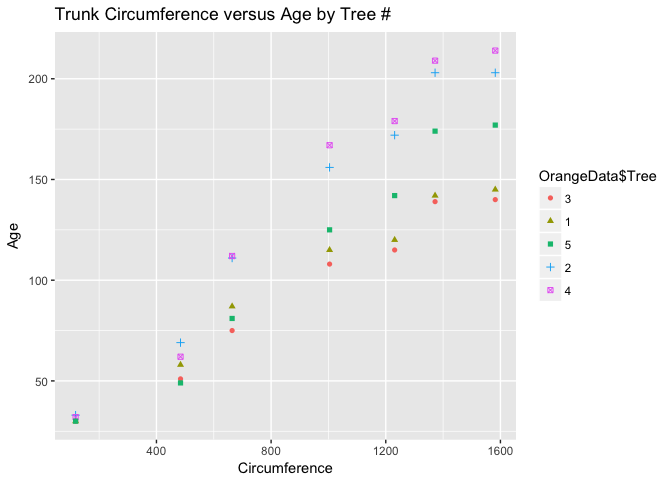
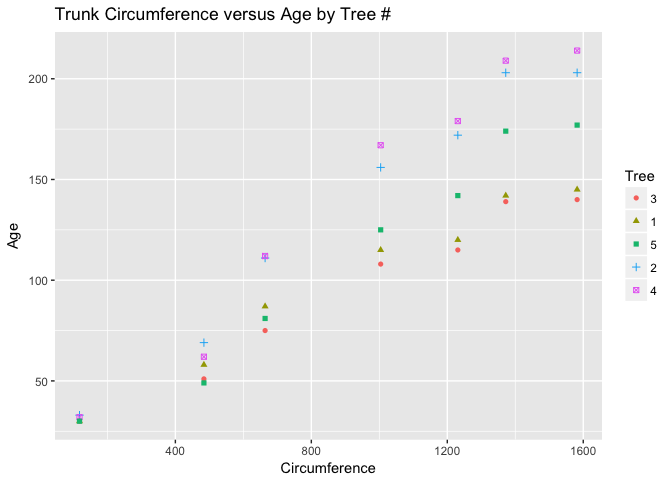
Update
Changes to commenting procedure

diff --git a/README.md b/README.md
@@ -16,25 +16,36 @@ source("install_load.R", print.eval = TRUE)
 
     ## 
     ## The downloaded binary packages are in
-    ##  /var/folders/wz/910_s_x97vs8hrw8gnjc98g80000gn/T//RtmpMI7lV1/downloaded_packages
+    ##  /var/folders/wz/910_s_x97vs8hrw8gnjc98g80000gn/T//RtmpR9XLBj/downloaded_packages
     ## 
     ## The downloaded binary packages are in
-    ##  /var/folders/wz/910_s_x97vs8hrw8gnjc98g80000gn/T//RtmpMI7lV1/downloaded_packages
+    ##  /var/folders/wz/910_s_x97vs8hrw8gnjc98g80000gn/T//RtmpR9XLBj/downloaded_packages
     ## 
     ## The downloaded binary packages are in
-    ##  /var/folders/wz/910_s_x97vs8hrw8gnjc98g80000gn/T//RtmpMI7lV1/downloaded_packages
+    ##  /var/folders/wz/910_s_x97vs8hrw8gnjc98g80000gn/T//RtmpR9XLBj/downloaded_packages
     ## 
     ## The downloaded binary packages are in
-    ##  /var/folders/wz/910_s_x97vs8hrw8gnjc98g80000gn/T//RtmpMI7lV1/downloaded_packages
+    ##  /var/folders/wz/910_s_x97vs8hrw8gnjc98g80000gn/T//RtmpR9XLBj/downloaded_packages
     ## 
     ## The downloaded binary packages are in
-    ##  /var/folders/wz/910_s_x97vs8hrw8gnjc98g80000gn/T//RtmpMI7lV1/downloaded_packages
+    ##  /var/folders/wz/910_s_x97vs8hrw8gnjc98g80000gn/T//RtmpR9XLBj/downloaded_packages
     ## 
     ## The downloaded binary packages are in
-    ##  /var/folders/wz/910_s_x97vs8hrw8gnjc98g80000gn/T//RtmpMI7lV1/downloaded_packages
+    ##  /var/folders/wz/910_s_x97vs8hrw8gnjc98g80000gn/T//RtmpR9XLBj/downloaded_packages
     ## 
     ## The downloaded binary packages are in
-    ##  /var/folders/wz/910_s_x97vs8hrw8gnjc98g80000gn/T//RtmpMI7lV1/downloaded_packages
+    ##  /var/folders/wz/910_s_x97vs8hrw8gnjc98g80000gn/T//RtmpR9XLBj/downloaded_packages
+
+    ## Warning in download.file(url, destfile, method, mode = "wb", ...): cannot
+    ## open URL 'http://cran.us.r-project.org/bin/macosx/mavericks/contrib/3.3/
+    ## lubridate_1.6.0.tgz': HTTP status was '0 (null)'
+
+    ## Warning in download.packages(pkgs, destdir = tmpd, available = available, :
+    ## download of package 'lubridate' failed
+
+    ## 
+    ## The downloaded binary packages are in
+    ##  /var/folders/wz/910_s_x97vs8hrw8gnjc98g80000gn/T//RtmpR9XLBj/downloaded_packages
 
     ## Warning in doTryCatch(return(expr), name, parentenv, handler): unable to load shared object '/Library/Frameworks/R.framework/Resources/modules//R_X11.so':
     ##   dlopen(/Library/Frameworks/R.framework/Resources/modules//R_X11.so, 6): Library not loaded: /opt/X11/lib/libSM.6.dylib
@@ -45,22 +56,86 @@ source("install_load.R", print.eval = TRUE)
 
 ##### a) Calculate the mean and the median of the trunk circumferences for different size of the trees. (Tree)
 
-#### We get the mean and median trunk circumference for the types of trees.
+#### *We get the mean and median trunk circumference for the types of trees.*
+
+![](/Users/mcrowder/Documents/Grad%20School/Data_Science/Case_Study_2/Case_Study_2/orangeTree.png)
 
 ``` r
-source("Q2_Orange.R", print.eval = TRUE, echo = FALSE)
+source("Q2_Orange.R", print.eval = TRUE, echo = TRUE, keep.source = TRUE)
 ```
 
-![](README_files/figure-markdown_github/unnamed-chunk-2-1.png)![](README_files/figure-markdown_github/unnamed-chunk-2-2.png)
+    ## 
+    ## > OrangeData <- Orange
+    ## 
+    ## > #We are going to use a SQL function to get answer to part A #
+    ## > #summaryBy(circumference ~ Tree, data = OrangeData, FUN = list(mean, median))
+    ## > 
+    ## > 
+    ##  .... [TRUNCATED] 
+    ## 
+    ## > qplot(data = OrangeData, x = age, y = circumference, shape = Tree, xlab = "Circumference", ylab = "Age", main = "Trunk Circumference versus Age by T ..." ... [TRUNCATED]
+
+![](README_files/figure-markdown_github/unnamed-chunk-2-1.png)
+
+    ## 
+    ## > # For the boxplot we use ggplot to generate Truck Circumference by Tree using different colors by tree #
+    ## > ggplot(data = OrangeData,
+    ## +   aes(x = Tre .... [TRUNCATED]
+
+![](README_files/figure-markdown_github/unnamed-chunk-2-2.png)
 
 ### 3.
 
 #### Part(i) Find the difference between the maximum and the minimum monthly average temperatures for each country and report/visualize top 20 countries with the maximum differences for the period since 1900.
 
+#### *The top 20 countries with maximum differences for the period are: Kazakhstan, Mongolia, Russia, Canada, Uzbekistan, Turkmenistan, Finland, Belarus, Ukraine, Estonia, Kyrgyzstan, North Korea, Lativa, Moldova, Greenland, Denmark, Lithuania, Tajikistan, Poland, Armenia*
+
 ``` r
-source("part_i.R", print.eval = TRUE, echo = FALSE)
+source("part_i.R", print.eval = TRUE, echo = TRUE, keep.source = TRUE)
 ```
 
+    ## 
+    ## > # We read in the data set that has already been downloaded from box.com #
+    ## > TEMPData <- read.csv("TEMP.csv")
+    ## 
+    ## > # Here we parse the data to what we need #
+    ## > TEMPDataSince1900 <- TEMPData[nrow(TEMPData):1,]
+    ## 
+    ## > # If you don't already have the package lubridate please install by taking the "#" off #
+    ## > #install.packages("lubridate")
+    ## > # load the library #
+    ## > l .... [TRUNCATED] 
+    ## 
+    ## > # Remove the NA's in this dataset #
+    ## > TEMPDataC <- na.omit(TEMPData)
+    ## 
+    ## > # These two lines will gives us the variables for temp min and max #
+    ## > AvgTempMin <- aggregate(TEMPData$Monthly.AverageTemp ~ TEMPData$Country, TEMP .... [TRUNCATED] 
+    ## 
+    ## > AvgTempMax <- aggregate(TEMPData$Monthly.AverageTemp ~ TEMPData$Country, TEMPData, function(x) max(x))
+    ## 
+    ## > # If you don't already have the package plyr please install by taking the "#" off # 
+    ## > 
+    ## > #install.packages("plyr")
+    ## > library(plyr)
+    ## 
+    ## > # We then merge the Min and Max data #
+    ## > AvgMinANDMaxTemp <- merge(AvgTempMax, AvgTempMin, by=1)
+    ## 
+    ## > # Continuing the tidying process we take the AvgMinANDMaxTemp and name the column names #
+    ## > AvgMinANDMaxTemp <- rename(AvgMinANDMaxTemp, c("TEMPData ..." ... [TRUNCATED] 
+    ## 
+    ## > # With the below line of code, we take the difference of the min and max #
+    ## > AvgMinANDMaxTemp$AvgMaxMinDiff <- AvgMinANDMaxTemp$AvgMaxTemp - AvgMinA .... [TRUNCATED] 
+    ## 
+    ## > # This line sets the order of the difference to prepare for the seperation of the top 20 countries #
+    ## > AvgMinANDMaxTempByDiff <- AvgMinANDMaxTemp[or .... [TRUNCATED] 
+    ## 
+    ## > # Here we accomplish the actual seperation of the top 20 countries with the max differences since 1900 #
+    ## > AvgMinANDMaxTempByDiffTop20 <- AvgMinANDM .... [TRUNCATED] 
+    ## 
+    ## > # We simply display the varible below to get our table of the largest variations in tempeture by country.
+    ## > AvgMinANDMaxTempByDiffTop20
     ##          Country AvgMaxTemp AvgMinTemp AvgMaxMinDiff
     ## 115   Kazakhstan     25.562    -23.601        49.163
     ## 144     Mongolia     20.716    -27.442        48.158
@@ -82,51 +157,61 @@ source("part_i.R", print.eval = TRUE, echo = FALSE)
     ## 216   Tajikistan     19.363    -16.466        35.829
     ## 174       Poland     22.509    -13.107        35.616
     ## 11       Armenia     25.291    -10.275        35.566
+    ## 
+    ## > # With plotting this data we want to display the difference between the Avg Min and Max Temp by the top 20 countries #
+    ## > ggplot(data = AvgMinANDMaxT .... [TRUNCATED]
 
 ![](README_files/figure-markdown_github/unnamed-chunk-3-1.png)
 
 #### Part (ii) a, b, and c. For part c we get an *answer of 1.865 degrees that happened in 2012 to 2013*
 
 ``` r
-source("part_ii.R", print.eval = TRUE, echo = TRUE)
+source("part_ii.R", print.eval = TRUE, echo = TRUE, keep.source = TRUE)
 ```
 
     ## 
+    ## > # Bring in the data again for TEMP.csv #
     ## > TempData = read.csv("TEMP.csv")
     ## 
+    ## > # We change the dataset name to prep for subsetting out the US Data #
     ## > USTemp <- TEMPData
     ## 
+    ## > # Here we subset the US data out #
     ## > USTemp <- subset(USTemp, Country == "United States")
     ## 
+    ## > # We isolate the US Temp from 1990 #
     ## > USTemp <- USTemp[-c(1:2656), ]
     ## 
-    ## > library(weathermetrics)
+    ## > # If you don't already have the package "weathermetrics" please install by taking the "#" off #
+    ## > #install.packages("weathermetrics")
+    ## > # load the l .... [TRUNCATED] 
     ## 
-    ## > USTemp$Monthly.AverageTempFahrenheit <- celsius.to.fahrenheit(USTemp$Monthly.AverageTemp, 
-    ## +     round = 3)
+    ## > # We use the weathermetrics package to execute the function to convert the celsisus to fahrenheit and answer part a #
+    ## > USTemp$Monthly.AverageTempFa .... [TRUNCATED] 
     ## 
     ## > DateTesting <- USTemp
     ## 
-    ## > DateTesting$FormattedDate <- as.Date(DateTesting$Date, 
-    ## +     format = "%m/%d/%Y")
+    ## > # We are simply formating the dates into one format #
+    ## > DateTesting$FormattedDate <- as.Date(DateTesting$Date, format="%m/%d/%Y")
     ## 
     ## > DateTesting$Month <- months(DateTesting$FormattedDate)
     ## 
+    ## > #If you don't already have the package "lubridate" please install by taking the "#" off #
+    ## > #install.packages("lubridate")
+    ## > 
     ## > library(lubridate)
     ## 
+    ## > #Here we start tidying the data by cleaning the dates #
     ## > DateTesting$Year <- year(DateTesting$FormattedDate)
     ## 
-    ## > landTemp <- aggregate(DateTesting$Monthly.AverageTempFahrenheit ~ 
-    ## +     DateTesting$Year, DateTesting, function(x) mean(x))
+    ## > # These
+    ## > landTemp <- aggregate(DateTesting$Monthly.AverageTempFahrenheit ~ DateTesting$Year, DateTesting, function(x) mean(x))
     ## 
-    ## > landTemp$Monthly.AverageTempFahrenheitDifference <- c(NA, 
-    ## +     round(diff(landTemp$`DateTesting$Monthly.AverageTempFahrenheit`), 
-    ## +         digits .... [TRUNCATED] 
+    ## > landTemp$Monthly.AverageTempFahrenheitDifference <- c(NA, round(diff(landTemp$`DateTesting$Monthly.AverageTempFahrenheit`), digits = 3))
     ## 
     ## > landTemp$`DateTesting$Monthly.AverageTempFahrenheit` <- NULL
     ## 
-    ## > landTemp <- rename(landTemp, c(`DateTesting$Year` = "Year", 
-    ## +     Monthly.AverageTempFahrenheitDifference = "AverageTemperatureDifferenceFromPrevio ..." ... [TRUNCATED] 
+    ## > landTemp <- rename(landTemp, c("DateTesting$Year"="Year", "Monthly.AverageTempFahrenheitDifference"="AverageTemperatureDifferenceFromPreviousYear"))
     ## 
     ## > landTemp <- arrange(landTemp, -landTemp$AverageTemperatureDifferenceFromPreviousYear)
     ## 
@@ -134,66 +219,58 @@ source("part_ii.R", print.eval = TRUE, echo = TRUE)
     ##   Year AverageTemperatureDifferenceFromPreviousYear
     ## 1 2013                                        1.865
     ## 
-    ## > landTemp <- aggregate(DateTesting$Monthly.AverageTempFahrenheit ~ 
-    ## +     DateTesting$Year, DateTesting, function(x) mean(x))
+    ## > landTemp <- aggregate(DateTesting$Monthly.AverageTempFahrenheit ~ DateTesting$Year, DateTesting, function(x) mean(x))
     ## 
-    ## > ggplot(data = landTemp, aes(x = landTemp$`DateTesting$Year`, 
-    ## +     y = landTemp$`DateTesting$Monthly.AverageTempFahrenheit`, 
-    ## +     group = 1)) + g .... [TRUNCATED]
+    ## > ggplot(data = landTemp, aes(x = landTemp$`DateTesting$Year`, y = landTemp$`DateTesting$Monthly.AverageTempFahrenheit`, group=1)) + geom_line() + geo .... [TRUNCATED]
 
 ![](README_files/figure-markdown_github/unnamed-chunk-4-1.png)
 
 #### Part (iii) Download “CityTemp” data set at box.com. Find the difference between the maximum and the minimum temperatures for each major city and report/visualize top 20 cities with maximum differences for the period since 1900.
 
 ``` r
-source("part_iii.R", print.eval = TRUE, echo = TRUE)
+source("part_iii.R", print.eval = TRUE, echo = TRUE, keep.source = TRUE)
 ```
 
     ## 
+    ## > # Read in the City Temp data #
     ## > CityTempData <- read.csv("CityTemp.csv")
     ## 
-    ## > CityTempData$FormattedDate <- as.Date(CityTempData$Date, 
-    ## +     format = "%m/%d/%Y")
+    ## > # We start the tidying process by cleaning the dates and setting the formats needed to complete our tasks #
+    ## > CityTempData$FormattedDate <- as.Date( .... [TRUNCATED] 
     ## 
     ## > CityTempData$Month <- months(CityTempData$FormattedDate)
     ## 
     ## > CityTempData$Year <- year(CityTempData$FormattedDate)
     ## 
-    ## > CityTempData <- CityTempData[order(CityTempData$Year), 
-    ## +     ]
+    ## > # Here we order the data by year
+    ## > CityTempData <- CityTempData[order(CityTempData$Year),]
     ## 
-    ## > CityTempData <- CityTempData[complete.cases(CityTempData[, 
-    ## +     10]), ]
+    ## > # Now we pull the since 1900 #
+    ## > CityTempData <- CityTempData[complete.cases(CityTempData[,10]),]
     ## 
-    ## > CityTempDataAvgMin <- aggregate(CityTempData$Monthly.AverageTemp ~ 
-    ## +     CityTempData$City, TEMPData, function(x) min(x))
+    ## > # With these lines we set variables for both min and the max, then we combine into one single variable #
+    ## > CityTempDataAvgMin <- aggregate(CityTempD .... [TRUNCATED] 
     ## 
-    ## > CityTempDataAvgMax <- aggregate(CityTempData$Monthly.AverageTemp ~ 
-    ## +     CityTempData$City, TEMPData, function(x) max(x))
+    ## > CityTempDataAvgMax <- aggregate(CityTempData$Monthly.AverageTemp ~ CityTempData$City, TEMPData, function(x) max(x))
     ## 
-    ## > CityTempDataAvgMinANDMaxTemp <- merge(CityTempDataAvgMax, 
-    ## +     CityTempDataAvgMin, by = 1)
+    ## > CityTempDataAvgMinANDMaxTemp <- merge(CityTempDataAvgMax, CityTempDataAvgMin, by=1)
     ## 
-    ## > CityTempDataAvgMinANDMaxTemp$AvgMaxMinDiff <- CityTempDataAvgMinANDMaxTemp$`CityTempData$Monthly.AverageTemp.x` - 
-    ## +     CityTempDataAvgMinANDMaxTem .... [TRUNCATED] 
+    ## > # Now we calculate the differences #
+    ## > CityTempDataAvgMinANDMaxTemp$AvgMaxMinDiff <- CityTempDataAvgMinANDMaxTemp$`CityTempData$Monthly.AverageTemp. .... [TRUNCATED] 
     ## 
-    ## > CityTempDataAvgMinANDMaxTemp <- rename(CityTempDataAvgMinANDMaxTemp, 
-    ## +     c(`CityTempData$City` = "City", `CityTempData$Monthly.AverageTemp.x` = " ..." ... [TRUNCATED] 
+    ## > # Make columns human readable #
+    ## > CityTempDataAvgMinANDMaxTemp <- rename(CityTempDataAvgMinANDMaxTemp, c("CityTempData$City"="City", "CityTempData$M ..." ... [TRUNCATED] 
     ## 
-    ## > CityTempDataAvgMinANDMaxTemp <- CityTempDataAvgMinANDMaxTemp[order(CityTempDataAvgMinANDMaxTemp$AvgMaxMinDiff, 
-    ## +     decreasing = TRUE), ]
+    ## > CityTempDataAvgMinANDMaxTemp <- CityTempDataAvgMinANDMaxTemp[order(CityTempDataAvgMinANDMaxTemp$AvgMaxMinDiff, decreasing = TRUE), ]
     ## 
-    ## > CityTempDataAvgMinANDMaxTemp <- CityTempDataAvgMinANDMaxTemp[order(-CityTempDataAvgMinANDMaxTemp$AvgMaxMinDiff), 
-    ## +     ][1:20, ]
+    ## > CityTempDataAvgMinANDMaxTemp <- CityTempDataAvgMinANDMaxTemp[order(-CityTempDataAvgMinANDMaxTemp$AvgMaxMinDiff),][1:20,]
     ## 
-    ## > CityTempDataAvgMinANDMaxTemp[, "Country"] <- NA
+    ## > CityTempDataAvgMinANDMaxTemp[,"Country"] <- NA
     ## 
-    ## > CityTempDataAvgMinANDMaxTemp$Country <- CityTempData$Country[match(CityTempDataAvgMinANDMaxTemp$City, 
-    ## +     CityTempData$City)]
+    ## > CityTempDataAvgMinANDMaxTemp$Country <- CityTempData$Country[match(CityTempDataAvgMinANDMaxTemp$City,CityTempData$City)]
     ## 
-    ## > ggplot(data = CityTempDataAvgMinANDMaxTemp, aes(x = City, 
-    ## +     y = AvgMaxMinDiff, group = 1, color = City)) + geom_point(size = 3) + 
-    ## +     theme( .... [TRUNCATED]
+    ## > # Plot for Top 20 Cities
+    ## > ggplot(data=CityTempDataAvgMinANDMaxTemp, aes(x=City, y=AvgMaxMinDiff, group=1, color=City)) + geom_point(size = 3) + the .... [TRUNCATED]
 
 ![](README_files/figure-markdown_github/unnamed-chunk-5-1.png)
 
@@ -202,7 +279,7 @@ source("part_iii.R", print.eval = TRUE, echo = TRUE)
 #### What we find these two graphs is that we have countries that are large and contain many different climate zones like China and Canada and the United States. Inland areas in what is called the Grasslands Biome - Midlatitude Climates (Bs) in the Koppen Climate Classification System can have extreme temperatures in both winter months and summer months. For more information on the Koppen Climate Classifications see <http://www.thesustainabilitycouncil.org/resources/the-koppen-climate-classification-system/>
 
 ``` r
-source("part_iv.R", print.eval = TRUE, echo = TRUE)
+source("part_iv.R", print.eval = TRUE, echo = TRUE, keep.source = TRUE)
 ```
 
     ## 
@@ -229,8 +306,8 @@ source("part_iv.R", print.eval = TRUE, echo = TRUE)
     ## 10           Berlin     23.795    -10.125        33.920       Germany
     ## 43            Jinan     28.389     -5.389        33.778         China
     ## 
-    ## > ggplot() + geom_point(data = AvgMinANDMaxTempByDiffTop20, 
-    ## +     aes(x = Country, y = AvgMaxMinDiff), show.legend = TRUE, 
-    ## +     size = 3, shape = 1 .... [TRUNCATED]
+    ## > ggplot() +
+    ## +   # Country Plot (Black Circles)
+    ## +   geom_point(data=AvgMinANDMaxTempByDiffTop20, aes(x=Country, y=AvgMaxMinDiff), show.legend = FALSE, .... [TRUNCATED]
 
 ![](README_files/figure-markdown_github/unnamed-chunk-6-1.png)
